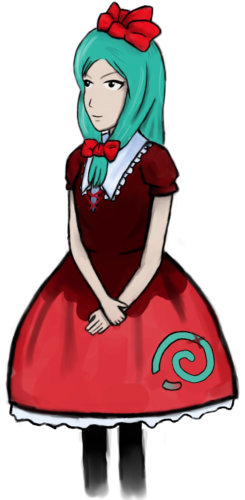
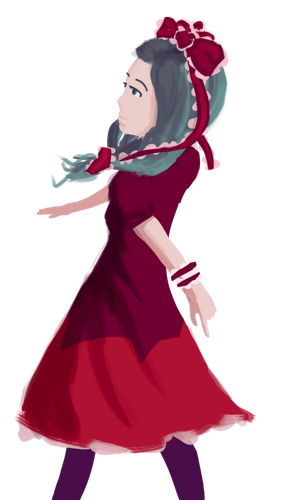
Dialog graphics
all missing dialog graphics and a replacement for Hina. replacements for
Youmu and Marisa to follow.

diff --git a/src/stages/stage4_events.c b/src/stages/stage4_events.c
@@ -12,7 +12,7 @@
 #include "laser.h"
 
 Dialog *stage4_dialog(void) {
-	Dialog *d = create_dialog(global.plr.cha == Marisa ? "dialog/marisa" : "dialog/youmu", "masterspark");
+	Dialog *d = create_dialog(global.plr.cha == Marisa ? "dialog/marisa" : "dialog/youmu", "dialog/kurumi");
 		
 	dadd_msg(d, Right, "Ah! Intruder! Stop being so persistent!");
 	
@@ -36,7 +36,7 @@ Dialog *stage4_dialog(void) {
 }
 
 Dialog *stage4_dialog_end(void) {
-	Dialog *d = create_dialog(global.plr.cha == Marisa ? "dialog/marisa" : "dialog/youmu", "masterspark");
+	Dialog *d = create_dialog(global.plr.cha == Marisa ? "dialog/marisa" : "dialog/youmu", "dialog/kurumi");
 	
 	dadd_msg(d, Left, "Now, where is your master?");
 	dadd_msg(d, Right, "Didn't I tell you? At the end of this corridor,\nthere is a door.");

diff --git a/src/stages/stage3_events.c b/src/stages/stage3_events.c
@@ -12,7 +12,7 @@
 #include "enemy.h"
 
 Dialog *stage3_dialog(void) {
-	Dialog *d = create_dialog(global.plr.cha == Marisa ? "dialog/marisa" : "dialog/youmu", "masterspark");
+	Dialog *d = create_dialog(global.plr.cha == Marisa ? "dialog/marisa" : "dialog/youmu", "dialog/wriggle");
 	
 	dadd_msg(d, Left, "Ugh, it's like bugs being attracted by the light...");
 	dadd_msg(d, Right, "That's right! The light makes us strong!");

diff --git a/src/stages/stage5_events.c b/src/stages/stage5_events.c
@@ -18,7 +18,7 @@ Dialog *stage5_post_mid_dialog(void) {
 }
 
 Dialog *stage5_boss_dialog(void) {
-	Dialog *d = create_dialog(global.plr.cha == Marisa ? "dialog/marisa" : "dialog/youmu", "masterspark");
+	Dialog *d = create_dialog(global.plr.cha == Marisa ? "dialog/marisa" : "dialog/youmu", "dialog/iku");
 	
 	dadd_msg(d, Left, "Finally!");
 	dadd_msg(d, Right, "Stop following me!");

diff --git a/src/stages/stage6_events.c b/src/stages/stage6_events.c
@@ -10,7 +10,7 @@
 #include <global.h>
 
 Dialog *stage6_dialog(void) {
-	Dialog *d = create_dialog(global.plr.cha == Marisa ? "dialog/marisa" : "dialog/youmu", "masterspark");
+	Dialog *d = create_dialog(global.plr.cha == Marisa ? "dialog/marisa" : "dialog/youmu", "dialog/elly");
 	
 	dadd_msg(d, Left, "You are responsible?");
 	dadd_msg(d, Right, "Yes...");

diff --git a/src/stages/stage1.c b/src/stages/stage1.c
@@ -14,7 +14,7 @@
 static Stage3D bgcontext;
 
 Dialog *stage1_dialog(void) {
-	Dialog *d = create_dialog(global.plr.cha == Marisa ? "dialog/marisa" : "dialog/youmu", "masterspark");
+	Dialog *d = create_dialog(global.plr.cha == Marisa ? "dialog/marisa" : "dialog/youmu", "dialog/cirno");
 		
 	dadd_msg(d, Right, "Hey! Who is there?");
 	
